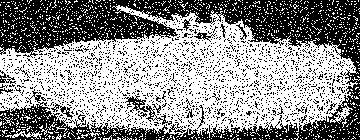
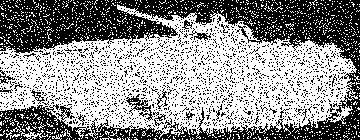
1 5

Changed region(s): [[0.0, 0.0, 1.0, 1.0]]

diff --git a/2lab/l1_spatial_smoothing.py b/2lab/l1_spatial_smoothing.py
@@ -14,31 +14,30 @@ def new_apply_func(pix_img, mask, point:Point_type):
                 tmp = np.zeros(len(pix_img[point]))
             pixs[imask, jmask] = tmp
 
-    if np.sum(pixs) >= 6*255*len(pix_img[point]):
-        return (255, 255, 255)
-    elif np.sum(pixs) <= 2*255*len(pix_img[point]):
-        return (0,0,0)
-    else:
-        return pix_img[point]
+    res = np.sum(pixs, (0,1)) / len(mask) / len(mask[0])
+    return res.astype(int)
 
 
 @print_durations
-def spatial_smoothing(image, draw):
+def spatial_smoothing(image, noise_img):
     res = image.copy()
     draw = ImageDraw.Draw(res)
     mask = [[1,1,1],
-            [1,0,1],
+            [1,1,1],
             [1,1,1]]
 
     for pos, p in pixel_gen(res, mask=mask, apply_func=new_apply_func):
         draw.point(pos, p)
 
 
-    res.save("res_"+name+"_1.jpg", "JPEG")
+    res.save(f"res_{name}_1.jpg", "JPEG")
+
+    diff_img = difference(noise_img, res)
+    diff_img.save(f"res_{name}_diff_1.jpg", "JPEG")
     return res
 
 
 if __name__ == "__main__":
-    main(spatial_smoothing)
+    main(spatial_smoothing, 1)
 
 

diff --git a/2lab/main.py b/2lab/main.py
@@ -75,7 +75,7 @@ def difference(first:Image, last:Image):
 name = sys.argv[-1].split('.')[0]
 
 @print_durations
-def main(func=None):
+def main(func=None, lab=0):
     if len(sys.argv) < 2:
         print("no file given")
         return
@@ -84,14 +84,15 @@ def main(func=None):
     for pos, p in pixel_gen(image):
         s = sum(p[:3]) // 3
         draw.point(pos, (s,s,s))
-    image.save("res_" + name + "_0.jpg", "JPEG")
+    image.save(f"res_{name}_0.jpg", "JPEG")
     noise_image = add_noise(image)
-    noise_image.save("res_" + name + "_noise.jpg", "JPEG")
+    noise_image.save(f"res_{name}_noise_{lab}.jpg", "JPEG")
 
     if func:
-        res_img = func(image, draw)
-        diff_img = difference(noise_image, res_img)
-        diff_img.save("res_" + name + "_diff.jpg", "JPEG")
+        res_img = func(image, noise_image)
+        #if res_img:
+            #diff_img = difference(noise_image, res_img)
+            #diff_img.save("res_" + name + "_diff.jpg", "JPEG")
 
 
 
